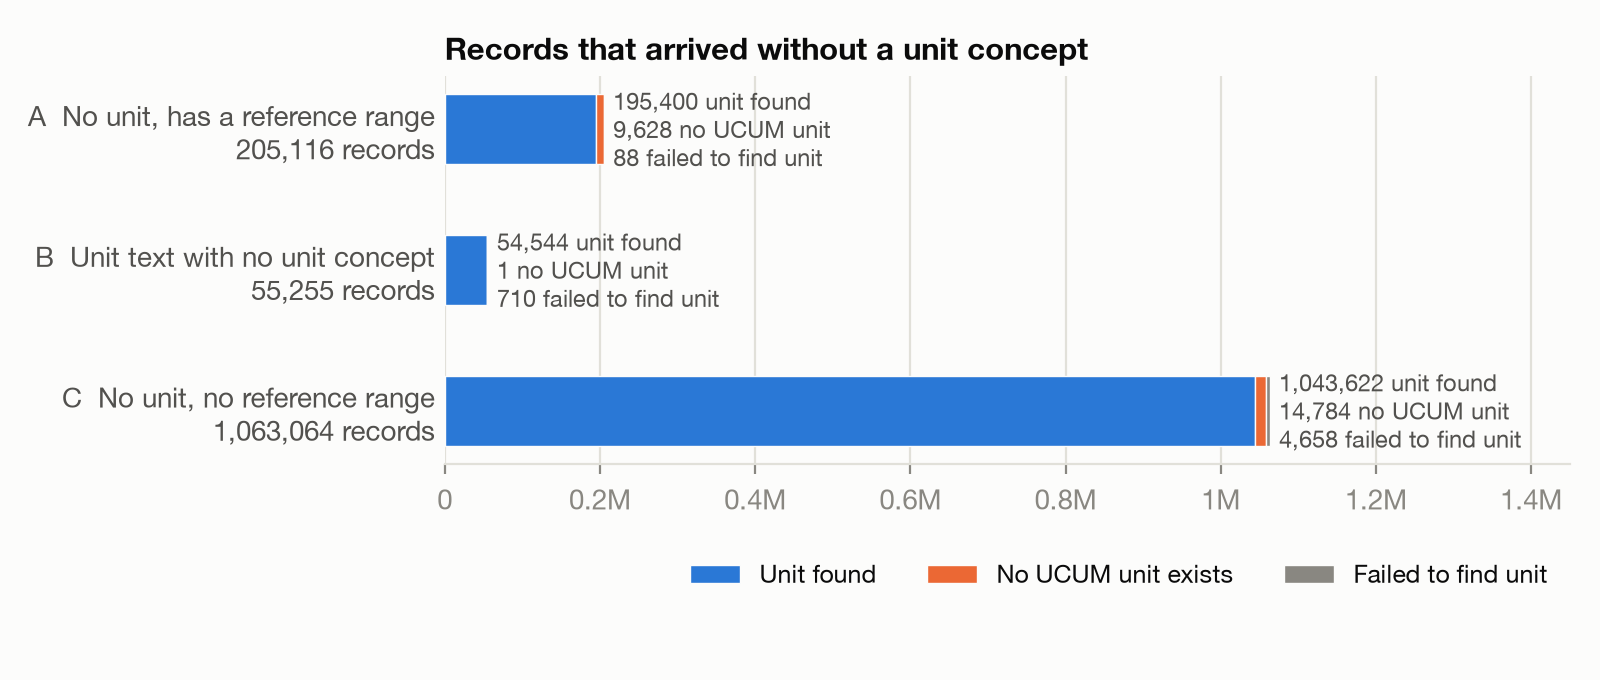
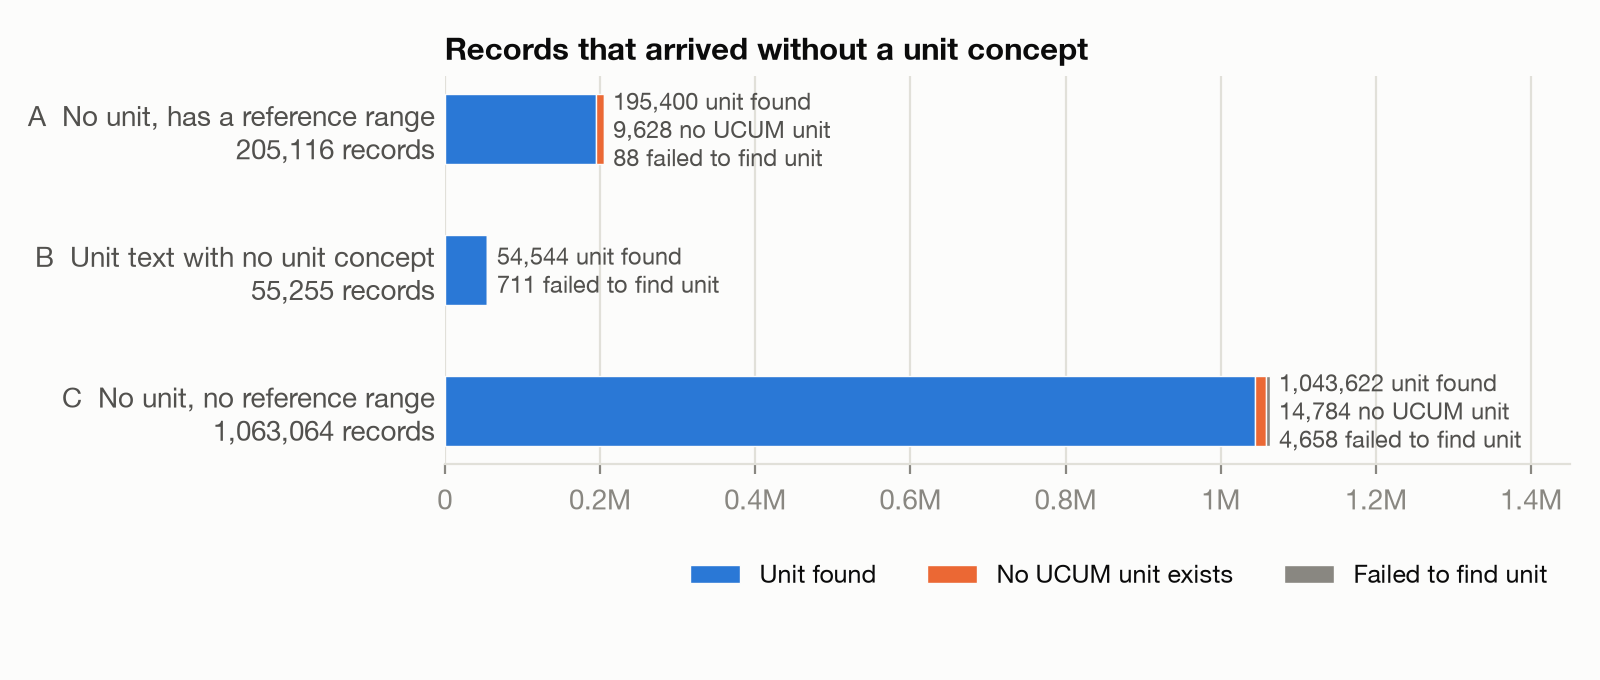
Count Part B's no-UCUM record with B's failures so no count under 11 shows
The README, Appendix A, chart and E expectation comments showed Part B's
single no_ucum_unit record. It is now counted with B's failures, and totals
that would give it back are adjusted or combined. The handoff no longer
carries an exception to the under-11 rule.

Claude-Session: https://claude.ai/code/session_01X4tGYnyYMYDF6cJSedygBp

Changed region(s): [[0.3125, 0.3397, 0.4688, 0.4632]]

diff --git a/measurement-unit-harmonization/charts/make_charts.py b/measurement-unit-harmonization/charts/make_charts.py
@@ -33,10 +33,11 @@ def style(ax):
 
 
 def unit_assignment():
-    # (group, unit found, no UCUM unit exists, failed to find unit); E1 by part
+    # (group, unit found, no UCUM unit exists, failed to find unit); E1 by part.
+    # B's no_ucum_unit count is under 11, so it is added to B's failures.
     parts = [
         ('A  No unit, has a reference range', 195_400, 9_628, 88),
-        ('B  Unit text with no unit concept', 54_544, 1, 710),
+        ('B  Unit text with no unit concept', 54_544, 0, 711),
         ('C  No unit, no reference range', 1_043_622, 14_784, 4_658),
     ]
     outcomes = ['Unit found', 'No UCUM unit exists', 'Failed to find unit']

diff --git a/measurement-unit-harmonization/README.md b/measurement-unit-harmonization/README.md
@@ -13,11 +13,14 @@ Every numeric record, by how it arrived and where it ended up:
 | Arrived with | Records | Has a unit now | No UCUM unit exists | Failed to find unit |
 |---|---:|---:|---:|---:|
 | A unit concept | 5,704,371 | 5,704,371 | 0 | 0 |
-| Unit text only | 55,255 | 54,544 | 1 | 710 |
+| Unit text only | 55,255 | 54,544 | | 711\* |
 | No unit, reference range | 205,116 | 195,400 | 9,628 | 88 |
 | No unit, no range | 1,063,064 | 1,043,622 | 14,784 | 4,658 |
 | *Unit removed by a correction* | | -14 | | +14 |
-| **Total** | **7,027,806** | **6,997,923** | **24,413** | **5,470** |
+| **Total** | **7,027,806** | **6,997,923** | **24,412** | **5,471** |
+
+\* Includes Part B's records with no UCUM unit (under 11), counted here so
+the table holds no count under 11.
 
 Counts are from the 2026-11-03 run.
 
@@ -38,13 +41,13 @@ were converted to it. How that works is in
 
 | What | Records | Where it comes from |
 |---|---:|---|
-| [No unit found](#no-unit-found) | 5,470 | "Failed to find unit" in the [first table](#units-inferred) |
+| [No unit found](#no-unit-found) | 5,471 | "Failed to find unit" in the [first table](#units-inferred) |
 | [Has a unit, can't convert](#has-a-unit-cant-convert) | 4,643 | "No fixed conversion" in the [chart above](#values-converted) |
 | [Values flagged implausible](#values-flagged-implausible-or-extreme) | 4,300 | Outside the REDCap list's plausible limits |
 | [Values flagged extreme](#values-flagged-implausible-or-extreme) | 24,426 | Inside those limits, outside the usual range |
 
 Each link gives the breakdown, the cell that shows those records, and where to
-change them. The 24,413 records with no UCUM unit aren't failures: specific
+change them. The 24,412 records with no UCUM unit aren't failures: specific
 gravity, counts, Ct values and the like, kept as recorded. Open questions are
 in [Known issues](#known-issues).
 
@@ -207,14 +210,14 @@ and [D](D_unit_conversion.sql), each with its reason.
 
 ### No unit found
 
-5,470 records have no unit, by the `unit_inference_method` that
+5,471 records have no unit, by the `unit_inference_method` that
 [Appendix A](#appendix-a-records-by-method) counts them under:
 
 | Records | Count | `unit_inference_method` | See | Change |
 |---|---:|---|---|---|
 | Codes and identifiers stored as numbers | 3,789 | not_a_quantity | E 15b | C 14 |
 | Small tests with no rule yet | 650 | needs_review, no_concept | E 15c, E 5b, E 8b | C 14, A 2, A 7 |
-| Unit text nothing maps | 436 | unmapped_string | E6 | A 1g |
+| Unit text nothing maps, or with no UCUM unit | 437 | unmapped_string, no_ucum_unit | E6, E 11b | A 1g |
 | Values that don't fit their test | 307 | suspect_concept | E 15d, E 15e, E 5b | C 14c, A 2 |
 | Junk in the unit field | 274 | not_a_unit | E 11c | A 1g |
 | A correction leaves no unit | 14 | the method that set the unit first | E 17f | A 1g |
@@ -324,10 +327,9 @@ are merged where a count would be under 11.
 | Unit | partner_unit | A | Copied from labeled records of the same test, same partner; medians must agree within a factor of 2 | 160 |
 | No UCUM unit exists | no_ucum_unit | C | Rule on the test name (counts, Ct values, RAST class) | 14,784 |
 | No UCUM unit exists | no_ucum_unit | A | Specific gravity | 9,628 |
-| No UCUM unit exists | no_ucum_unit | B | Activity coefficient | 1 |
 | Failed to find unit | not_a_quantity | C | Codes and IDs stored as numbers (EKG impression codes, HLA alleles, case numbers) | 3,789 |
 | Failed to find unit | needs_review | C | No rule yet | 644 |
-| Failed to find unit | unmapped_string | B | Unit text nothing maps: DL/VA units, assay-specific units such as FLU and CU, per-ejaculate counts | 436 |
+| Failed to find unit | unmapped_string, no_ucum_unit | B | Unit text nothing maps: DL/VA units, assay-specific units such as FLU and CU, per-ejaculate counts; or a quantity with no UCUM unit (activity coefficient) | 437 |
 | Failed to find unit | not_a_unit | B | Junk in the unit field ("Possible", "PharmD") | 274 |
 | Failed to find unit | suspect_concept | C | Values don't fit the test (total lung capacity stored under RV/TLC) | 225 |
 | Failed to find unit | suspect_concept, needs_review, no_concept | A | Values don't fit the test, undetermined, or no test concept and no source-name rule | 88 |

diff --git a/measurement-unit-harmonization/unit_inference_handoff.md b/measurement-unit-harmonization/unit_inference_handoff.md
@@ -16,9 +16,8 @@ Nothing identifying goes in the repo:
 - No medians or record values in rationales or notes.
 - Docs report no count under 11. Merge the row or cell instead, and check that
   totals don't give it back. Low counts aren't PHI; this avoids inviting
-  curiosity. So a low count can be shown where hiding it would obscure what
-  the numbers mean and its values aren't easy to infer (Siggie's call), as with
-  Part B's one `no_ucum_unit` record.
+  curiosity. E's expectation comments follow the same rule. Part B's
+  `no_ucum_unit` records are counted with B's failures for this reason.
 - Read every CSV from [make_tables.py](make_tables.py) before committing it.
   `ref_files/` is excluded from git; `tables/` isn't.
 
